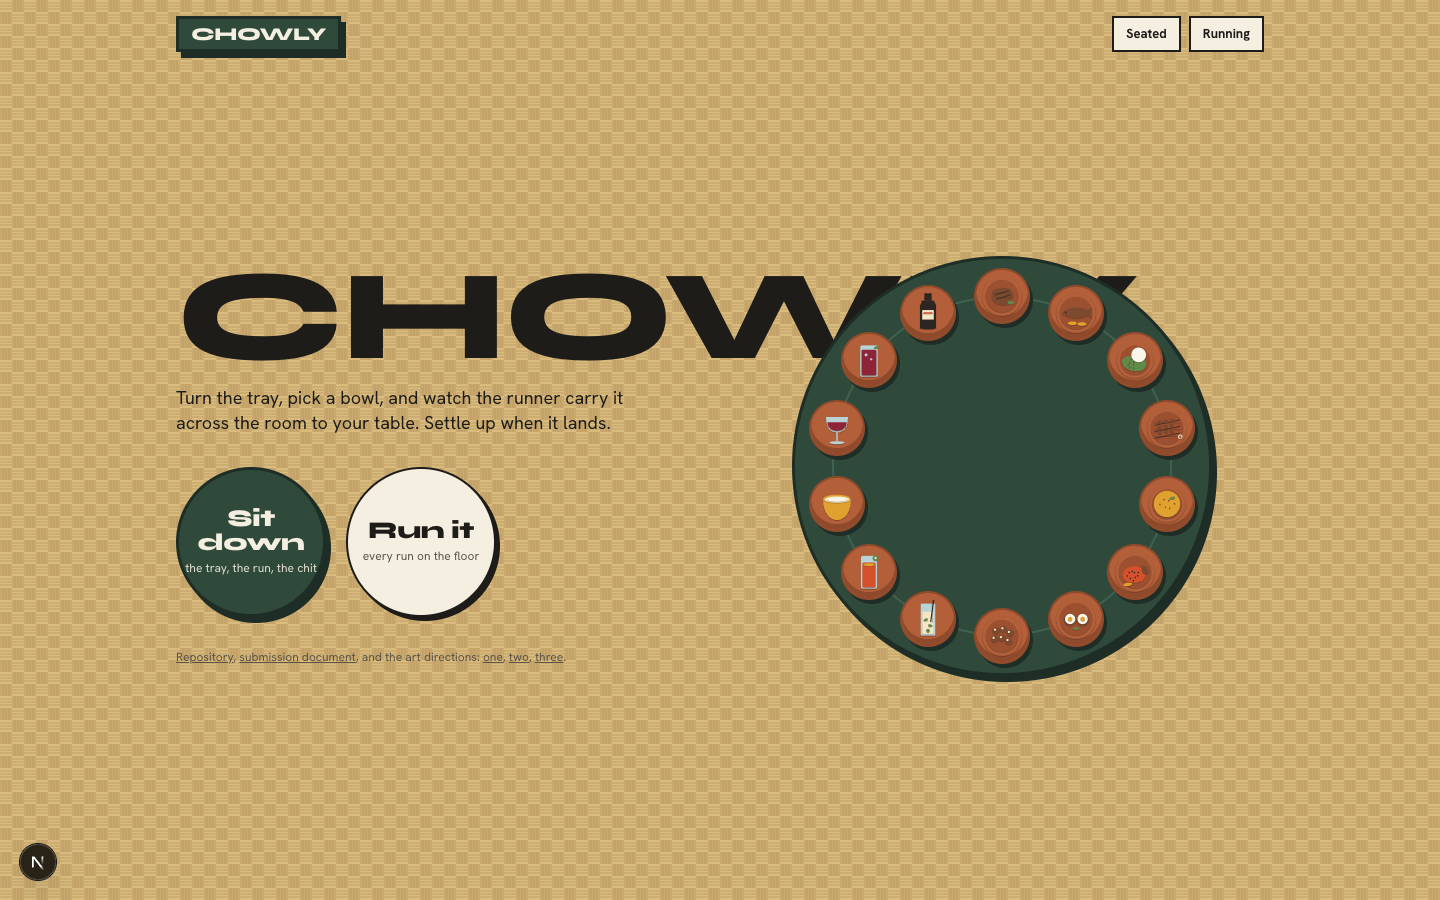
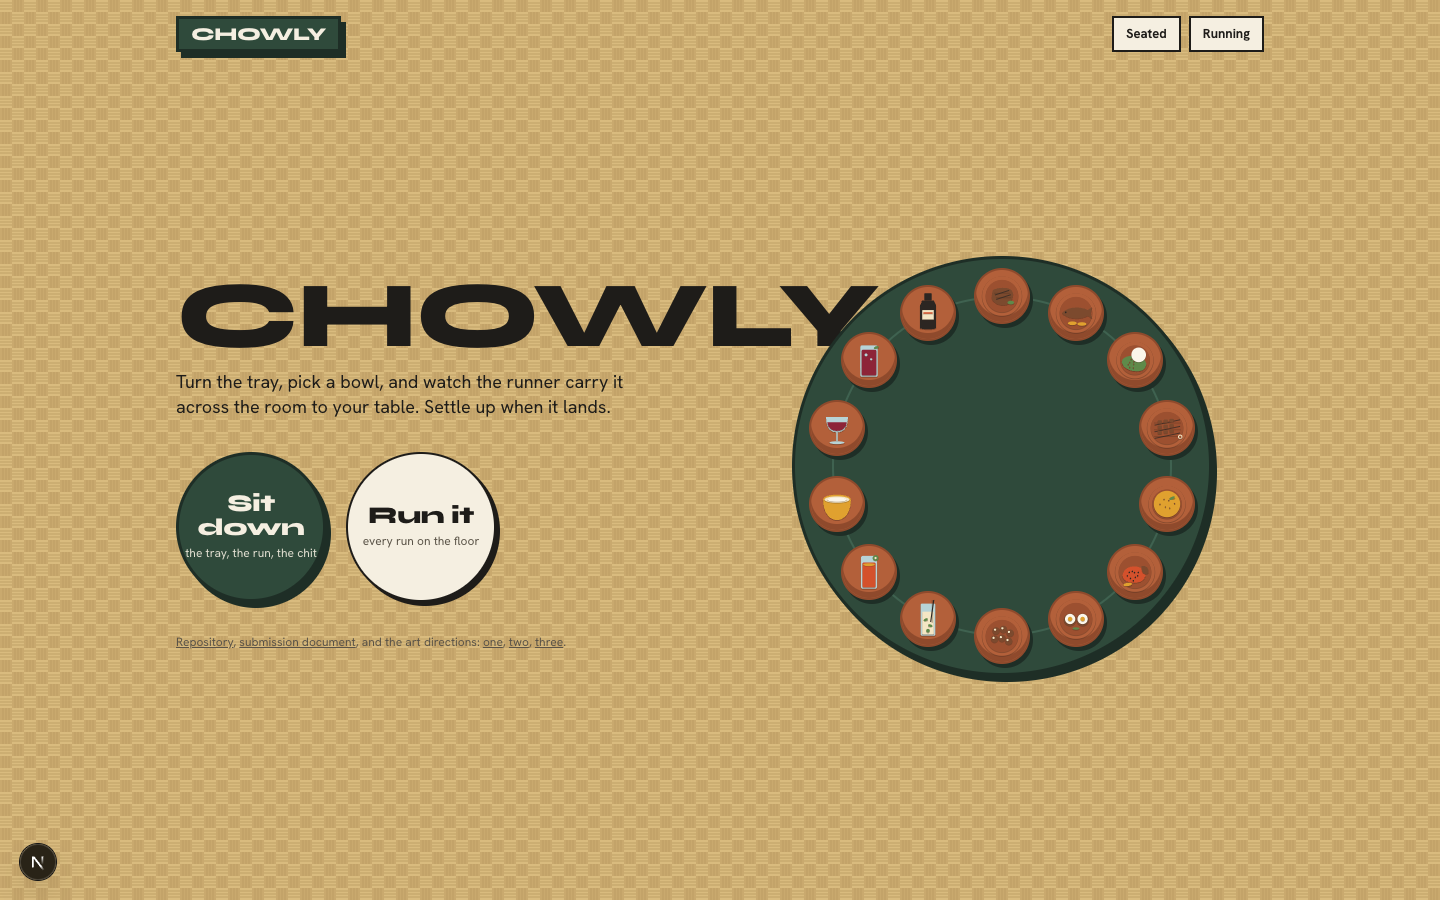
fix: direction two, the name clear of the tray at 1440
The landing headline is clamped to the width of its column so it no
longer runs across the tray on a wide screen. Frames re-shot.

Changed region(s): [[0.125, 0.28, 0.625, 0.7467], [0.75, 0.3111, 0.7812, 0.3422]]

diff --git a/components/directions-3/two/landing.tsx b/components/directions-3/two/landing.tsx
@@ -49,7 +49,7 @@ export function RunLanding() {
           </div>
         </div>
         <div className="min-w-0 lg:order-1">
-          <h1 className="name syne text-[clamp(3rem,11.5vw,8rem)] leading-[0.9]" style={{ opacity: 0 }}>CHOWLY</h1>
+          <h1 className="name syne text-[clamp(3rem,6.5vw,6rem)] leading-[0.9]" style={{ opacity: 0 }}>CHOWLY</h1>
           <p className="line mt-3 max-w-md text-[15px] leading-snug sm:text-lg" style={{ opacity: 0 }}>
             Turn the tray, pick a bowl, and watch the runner carry it across the room to your table. Settle up when it lands.
           </p>
